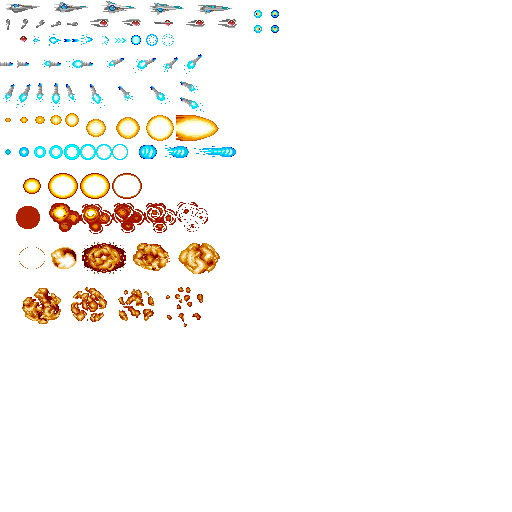
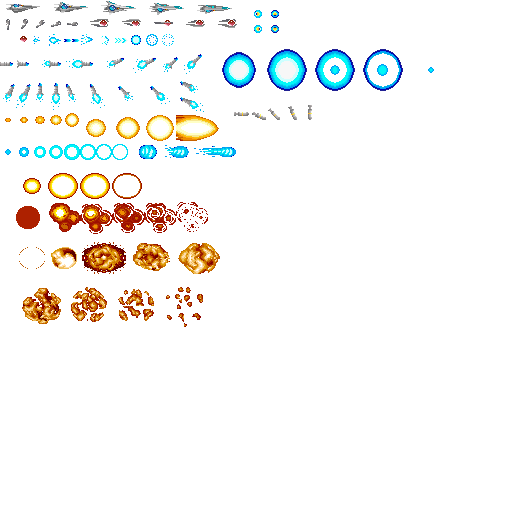
PowerUpBomb NOT FINISHED. Updated player death

Changed region(s): [[0.4375, 0.0938, 0.8125, 0.1875], [0.4688, 0.2188, 0.625, 0.25]]

diff --git a/X-Multiply/ModuleParticles.cpp b/X-Multiply/ModuleParticles.cpp
@@ -35,7 +35,16 @@ ModuleParticles::ModuleParticles()
 	enemy_shot.speed.y = 1;
 	enemy_shot.life = 4000;
 
-	player_death.anim.PushBack({ 112, 144, 16, 16 });
+	player_death.anim.PushBack({ 220, 50, 40, 42 });
+	player_death.anim.PushBack({ 268, 50, 40, 42 });
+	player_death.anim.PushBack({ 316, 144, 40, 42 });
+	player_death.anim.PushBack({ 364, 144, 40, 42 });
+	player_death.anim.PushBack({ 412, 144, 40, 42 });
+	player_death.anim.speed = 0.2f;
+	player_death.anim.loop = false;
+	
+	//SMALL BLUE EXPLOSION COORDINATES
+	/*player_death.anim.PushBack({ 112, 144, 16, 16 });
 	player_death.anim.PushBack({ 96, 144, 16, 16 });
 	player_death.anim.PushBack({ 80, 144, 16, 16 });
 	player_death.anim.PushBack({ 64, 144, 16, 16 });
@@ -44,7 +53,7 @@ ModuleParticles::ModuleParticles()
 	player_death.anim.PushBack({ 16, 144, 16, 16 });
 	player_death.anim.PushBack({ 0, 144, 16, 16 });
 	player_death.anim.speed = 0.5f;
-	player_death.anim.loop = false;
+	player_death.anim.loop = false;*/
 
 	shot_impact.anim.PushBack({ 82, 34, 12, 12 });
 	shot_impact.anim.PushBack({ 102, 37, 8, 9 });

diff --git a/X-Multiply/PowerUpBomb.cpp b/X-Multiply/PowerUpBomb.cpp
@@ -1,0 +1,33 @@
+#include "Application.h"
+#include "PowerUpBomb.h"
+#include "ModuleCollision.h"
+#include "ModuleParticles.h"
+#include "ModulePlayer.h"
+
+
+PowerUp_Bomb::PowerUp_Bomb(int x, int y) : PowerUp(x, y)
+{
+
+
+	fly.PushBack({ 69, 75, 24, 13 });
+
+	fly.speed = 0.0f;
+
+	animation = &fly;
+
+	original_y = y;
+}
+
+void PowerUp_Bomb::Move()
+{
+
+}
+
+
+void PowerUp_Bomb::OnCollision(Collider* collider)
+{
+	if (collider->type == COLLIDER_PLAYER)
+	{
+		App->player->score += 1000;
+	}
+}

diff --git a/X-Multiply/PowerUpBomb.h b/X-Multiply/PowerUpBomb.h
@@ -1,0 +1,22 @@
+#ifndef __POWERUPBOMB_H__
+#define __POWERUPBOMB_H__
+
+#include "PowerUp.h"
+
+class PowerUp_Bomb : public PowerUp
+{
+private:
+
+	int original_y = 0;
+	Animation fly;
+
+public:
+
+	PowerUp_Bomb(int x, int y);
+	iPoint original_position;
+
+	void Move();
+	void PowerUp_Bomb::OnCollision(Collider* collider);
+};
+
+#endif 

diff --git a/X-Multiply/PowerUp_SpeedUp.h b/X-Multiply/PowerUp_SpeedUp.h
@@ -17,8 +17,6 @@ public:
 
 	void Move();
 	void PowerUp_SpeedUp::OnCollision(Collider* collider);
-
-
 };
 
 #endif 
